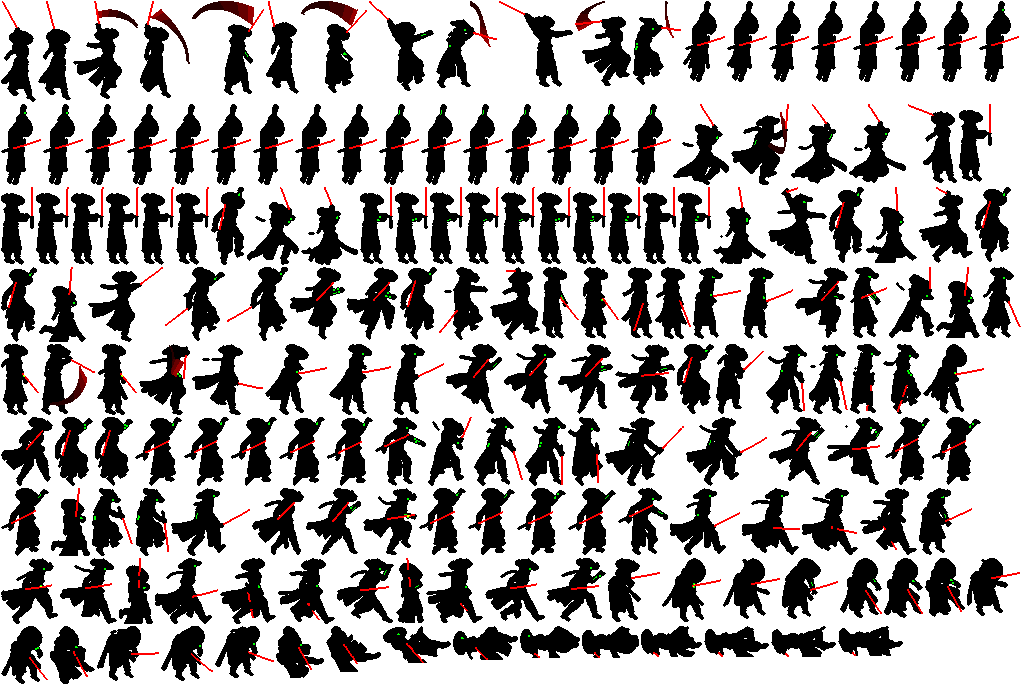
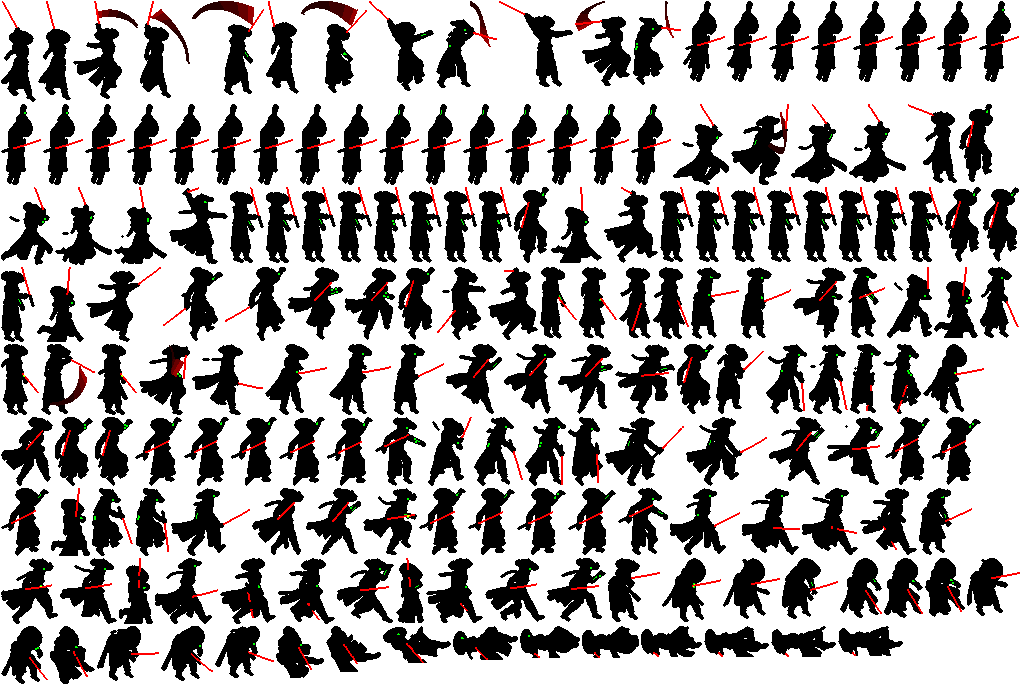
feat(ronin): standing pose holds the katana in the right hand, brought forward by arm IK, blade up; re-baked sheet

Changed region(s): [[0.0, 0.1533, 1.0, 0.5212], [0.1562, 0.4292, 0.2188, 0.4905]]

diff --git a/Assets/Editor/Ronin/RoninSpriteBaker.cs b/Assets/Editor/Ronin/RoninSpriteBaker.cs
@@ -103,6 +103,7 @@ namespace Redline.RoninEditor
             _katana = null;
             _uprightDeg = float.NaN;
             _twoHand = false;
+            _rightForward = false;
             if (_cam != null)
             {
                 _cam.targetTexture = null;
@@ -146,13 +147,14 @@ namespace Redline.RoninEditor
             // Idle: 1.33 s breathing cycle, 16 frames at 12 fps.
             // Sword held upright in a normal grip (blade up, leaning forward) in every non-attack pose; the slashes,
             // the slide attack and death keep their own blade (see _uprightDeg / FixKatana).
-            _uprightDeg = 30f;   // standing: two-handed guard, blade up and forward in front of the body
-            _twoHand = true;
+            _uprightDeg = 12f;   // standing: the right hand forward in front of the body, blade up
+            _rightForward = true;
             list.Add(SampleClip("idle", RoninClip.Idle, 16f / L(RoninClip.Idle), true, Uniform(16, 0f, L(RoninClip.Idle), true), 0f, false, idleHips, hand));
             // Run and sprint: one stride cycle each (10 and 8 frames). The presenter plays them at
             // speed x duration / stride (the stride is measured here from the planted foot), so the cloth is simulated
             // in the real time one cycle takes at the speed each represents (run 9 u/s = the sim's run speed, sprint 18).
             _twoHand = false;
+            _rightForward = false;
             _uprightDeg = 35f;
             list.Add(Loco("run", RoninClip.Run, 10, 9f, idleHips, hand));
             _uprightDeg = 55f;
@@ -575,6 +577,9 @@ namespace Redline.RoninEditor
         /// <summary>Standing two-handed guard: both palms on the handle in front of the belly (set per clip while baking).</summary>
         private static bool _twoHand;
 
+        /// <summary>Standing one-handed: the right hand brought forward in front of the body, blade up (set per clip while baking).</summary>
+        private static bool _rightForward;
+
         /// <summary>Handle centre of the two-handed guard relative to the hips (world units, facing +x; -z is toward the camera).</summary>
         private static readonly Vector3 GuardOffset = new Vector3(0.3f, 0.14f, -0.1f);
 
@@ -585,12 +590,18 @@ namespace Redline.RoninEditor
         /// </summary>
         private static void TwoHandGuard()
         {
-            if (!_twoHand || float.IsNaN(_uprightDeg)) return;
+            if ((!_twoHand && !_rightForward) || float.IsNaN(_uprightDeg)) return;
             var hips = Bone(HumanBodyBones.Hips);
             if (hips == null) return;
             float a = _uprightDeg * Mathf.Deg2Rad;
             var dir = new Vector3(Mathf.Sin(a), Mathf.Cos(a), 0f);
             Vector3 centre = hips.position + GuardOffset;   // world units (the baked model is already at game scale)
+            if (_rightForward)
+            {
+                // One-handed: only the right (sword, near-camera) hand comes forward in front of the body.
+                ArmTo(HumanBodyBones.RightUpperArm, HumanBodyBones.RightLowerArm, HumanBodyBones.RightHand, HumanBodyBones.RightMiddleProximal, centre);
+                return;
+            }
             ArmTo(HumanBodyBones.RightUpperArm, HumanBodyBones.RightLowerArm, HumanBodyBones.RightHand, HumanBodyBones.RightMiddleProximal, centre + dir * 0.06f);
             ArmTo(HumanBodyBones.LeftUpperArm, HumanBodyBones.LeftLowerArm, HumanBodyBones.LeftHand, HumanBodyBones.LeftMiddleProximal, centre - dir * 0.07f);
         }
